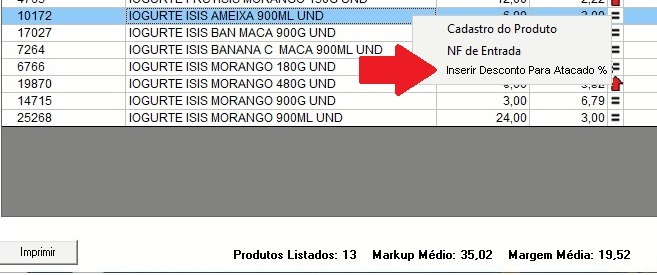
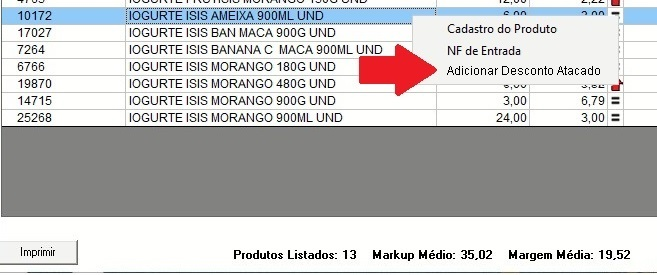
Adicionando imagens

Changed region(s): [[0.6697, 0.0582, 0.9437, 0.32]]

diff --git a/Analise_24_Maio_2021_AtacadoWeb.md b/Analise_24_Maio_2021_AtacadoWeb.md
@@ -82,7 +82,7 @@
 
     ![](https://github.com/Rodrigo80221/AnalisesDeSoftware/blob/main/Imagens/AtacadoWEB/Selecionar1.jpg?raw=true)
 
-
+> O packs buscados sempre terão que estar na mesma regra de arredondamento da tela de controle de entradas, senão o resultado final ficará errado.
 ---
 
 ## Botão `Adicionar Novo`
@@ -95,22 +95,31 @@
 
 1. Será exibido um inputbox sugerindo a descrição
 
+    ![](https://github.com/Rodrigo80221/AnalisesDeSoftware/blob/main/Imagens/AtacadoWEB/Selecionar4.jpg?raw=true)
 
+1. Após confirmado já voltará para a tela do controle de entradas.
+1. O pack já será criado no banco com as regras, descrição e configurações de arredondamento
 
-1. O campo `A partir de (Qtd.)` deverá vir preenchido com a quantidade da embalagem desse fornecedor
-1. O campo `Valor Atacado` deverá vir com o preço do grid
-1. O campo `Desconto %` deverá ser calculado de acordo com a regra de arredondamento
-    * Caso o usuário altere os valores o respectivo campo deverá ser recalculado, sempre de acordo com a regra de arredondamento.
+---
+
+## Criar menu para adicionar pack
+
+1. Ao clicar com o botão direito será exibido um menu
+
+    ![](https://github.com/Rodrigo80221/AnalisesDeSoftware/blob/main/Imagens/AtacadoWEB/ListarPacks5.jpg?raw=true)
+
+1. A selecionar `Inserir Desconto Para Atacado %` exibir a tela de definição de modelos
+    * O campo `A partir de (Qtd.)` deverá vir preenchido com a quantidade da embalagem desse fornecedor
+    1. O campo `Valor Atacado` deverá vir em branco
 1. No grid serão listados os packs que se encaixam nas regras digitadas, o usuário pode selecionar um modelo.
 
+    ![](https://github.com/Rodrigo80221/AnalisesDeSoftware/blob/main/Imagens/AtacadoWEB/Selecionar1.jpg?raw=true)
+
+1. Após selecionado um pack voltará para a tela do controle de entradas.
 
 ---
 
-## Clique no Preço de Venda do atacado
-
-1. Se o usuário clicar no preço de venda do atacado irá abrir uma tela para ajuda-lo a selecionar um pack ou para criar um novo
-
-1. Neste caso os campos da tela deverão vir preenchidos
+## Criar menu para remover pack do produto
 
 
 
@@ -121,48 +130,14 @@
 
 
 
-
----
-
-1. Permitir editar a quantidade da regra 
-1. Permitir editar a porcentagem da regra 
-1. Ao alterar o preço de venda deve alterar a porcentagem, ao alterar a porcentagem deve alterar o preço de venda (margem e markup andam juntas)
-1. Se estiver marcado a sugestão de arredondamento deve ser utilizada também para o pack virtual
-1. Deve atualizar dinamicamente a descrição do pack
-1. Ao salvar o pack deve salvar em um pack com a mesma descrição e regras ou criar outro
-![](https://github.com/Rodrigo80221/AnalisesDeSoftware/blob/main/Imagens/AtacadoWEB/ListarPacks4.jpg?raw=true)
-
-
-
-
----
-
-![](https://github.com/Rodrigo80221/AnalisesDeSoftware/blob/main/Imagens/AtacadoWEB/ListarPacks5.jpg?raw=true)
-1. Adicionar menu no produto "Inserir desconto para atacado (%)"
-1. Exibir input box para exibir a quantidade e porcentagem inicial
-
----
-
-1. Destaque da cor da linha
-    * Atualmente os packs e as promoções são destacados com verde, será mantida a mesma cor???
-    * O procedimento para colorir a linha está bem ruim, pisca muito
+    * O procedimento para colorir a promoção deverá ficar apenas em 1 célular
     * Colocar uma legenda
 
 
 
----
-
-
-1. Criar configurações para colunas visualizadas
-
-
-
-
----
-
 
 Tratamento para produtos associados
-
+Adicionar os produtos associados no pack?
 
 
 Item que está na promoção não deverá sofrer alteração percentual no preço de venda
@@ -173,8 +148,6 @@ Item que está na promoção não deverá sofrer alteração percentual no preç
 
 
 
-
-qtd atacado
 
 
 
@@ -188,9 +161,8 @@ se alterar o produto pai , altera o percentual do filho
 
 o valor atual é diferente na linha do  pack 
 
-tirar os custos da linha do pack , cfop , loja, tirar o simbolo também 
 
-sugerir a quantidade a partir do fornecedor da nota, no imputbox , o índio vai utilizar 
+
 
 remover pack 
 
